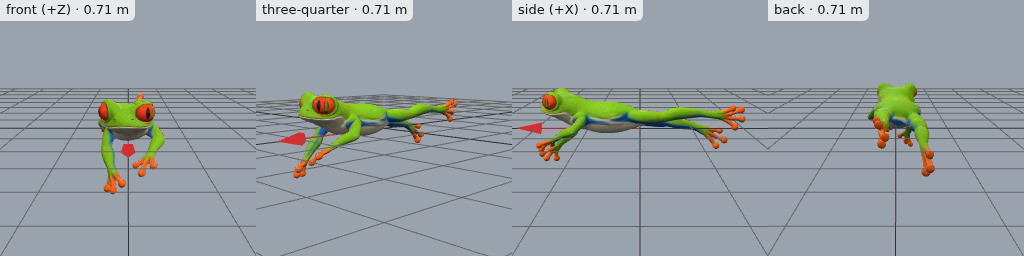
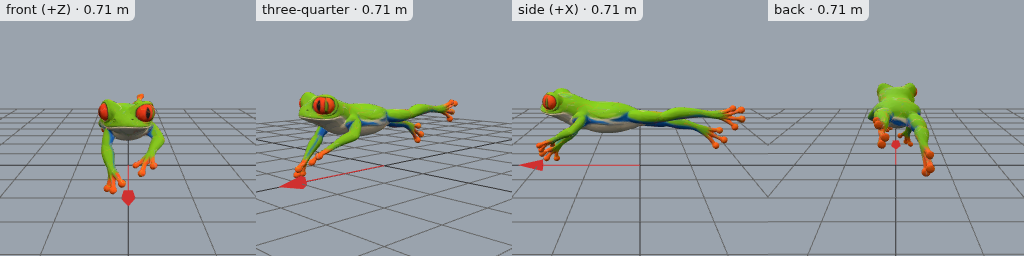
Release 2026.11.2: models stand on the ground; a guide to animating creatures
- A model made without --height stands on the ground at Meshy's size,
  instead of staying centered, half underground. Fixes #7.
- animating.md, read when an animal or monster should move: key poses
  first, turn parts about joints instead of stretching them, make poses a
  fused mesh can't reach as separate models, check from two angles. The
  code-animation section moves there from reference.md, with its wing and
  leg tips corrected. Fixes #8.

diff --git a/skills/meshgen/animating.md b/skills/meshgen/animating.md
@@ -1,0 +1,84 @@
+# Animating models Meshy can't rig
+
+Read this when the user wants an animal, monster or other model without a
+humanoid rig to move: a fish swimming, a dragon flying, a frog hopping. Meshy
+rigs only humanoids (its four-legged rig is experimental and came back
+unusable in testing), so the motion is made in the game's code. The
+[Creature Showcase](https://zeveck.github.io/meshgen/creatures/) does it
+for a fish, a dragon, a frog and a cat (source:
+https://github.com/zeveck/meshgen/blob/main/examples/creatures/showcase.js).
+
+## 1. Describe the motion as key poses first
+
+Before writing code, write down what the motion looks like at its key
+moments, as an animator would. Think about how the real animal moves, not
+about what's easiest to code. For example:
+
+- **Frog hop:** crouch; push off with the body stretched out level and both
+  hind legs straight back; land front feet first and fold back to sitting.
+- **Bird or dragon wingbeat:** each wing turns at the shoulder; a quick,
+  strong downstroke, a slower upstroke; the tips trail a little behind.
+- **Fish swim:** a wave travelling from head to tail, bigger toward the tail.
+- **Four-legged trot:** legs swing in diagonal pairs (front left with back
+  right) about the hips and shoulders, and the body bobs twice per stride.
+
+## 2. Check whether the model can reach those poses
+
+Look at the preview sheet. Meshy's models are one surface, so a part can
+only move on its own if it's clearly separate from the body.
+
+- **Parts that stick out** (wings, tails, fins, long legs): turn them about
+  a pivot (shoulder, hip, tail root) in a vertex shader or by moving
+  vertices. Don't shear or stretch them; that flattens them into sticks.
+- **Parts fused into the body** (a sitting frog's folded legs, a curled
+  tail): they can't be bent out without smearing the surface. Make each key
+  pose as its own model instead. Edit the original picture with imagegen2
+  ("the same frog, mid-leap, seen from the side, legs stretched back"), make
+  it with `meshgen model`, and swap the models at a moment the motion hides,
+  such as the squash on takeoff and landing. Each pose is 30 credits.
+
+A picture's view decides what the model is good at: a flat front view of
+spread wings gives thin wings that read well only from above or below.
+
+## 3. Check it from more than one angle
+
+Render frames of the motion from at least two directions (the side and the
+front, or the angles the game's camera uses) and compare them with the key
+poses from step 1. A motion can look right from one side and broken from
+another. Show moving parts from angles where they face the camera.
+
+## Doing it in three.js
+
+1. **Bake the model into meters.** Apply each mesh's world matrix to its
+   geometry, so shader code sees the model's own space (+Y up, +Z front):
+
+   ```js
+   gltf.scene.updateMatrixWorld(true);
+   gltf.scene.traverse((o) => { if (o.isMesh) o.geometry = o.geometry.clone().applyMatrix4(o.matrixWorld); });
+   ```
+
+2. **Add a deformation** after three.js computes `transformed`:
+
+   ```js
+   mesh.material.onBeforeCompile = (shader) => {
+     Object.assign(shader.uniforms, { uTime, uMaxZ, uLen }); // { value: ... }; update uTime each frame
+     shader.vertexShader = 'uniform float uTime, uMaxZ, uLen;\n' + shader.vertexShader.replace(
+       '#include <begin_vertex>',
+       `#include <begin_vertex>
+        float along = clamp((uMaxZ - position.z) / uLen, 0.0, 1.0);   // 0 head, 1 tail
+        transformed.x += uLen * 0.16 * pow(along, 1.7) * sin(uTime * 5.0 - along * 5.5);`);
+   };
+   mesh.material.customProgramCacheKey = () => 'fish';
+   ```
+
+   - **Swimming:** a sine wave down the body, stronger toward the tail.
+   - **Wings:** turn each wing's vertices about the shoulder by an angle
+     that follows the wingbeat; the tips can lag a little behind.
+   - **Legs:** turn the vertices below the hips forward and back about the
+     hip, in diagonal pairs for a trot.
+   - **Hops:** squash and stretch the whole model (scale y up, x and z down),
+     and move it along an arc.
+
+3. **Check the picture's view.** Meshy usually turns a creature to face +Z
+   even when the picture was a side view, but not always. Look at the
+   preview's front view before choosing the body axis.

diff --git a/skills/meshgen/reference.md b/skills/meshgen/reference.md
@@ -98,48 +98,13 @@ the blade, a point light, and an emissive material.
 | Blending (walk into run, strafing) | The engine: crossfades and weights, or Godot's AnimationTree |
 | Small reactions: flinch, recoil, look-at, aiming, breathing | The engine, layered on top of the clips (additive clips, IK, a bone turned in code) |
 | Props: chest lid, door, lever, wheels, spinning pickups | No rig: rotate or move the model's parts in code |
-| Animals, monsters, vehicles, anything not two-legged | No rig: a plain model, moved in code (see below). Meshy's `--quadruped` rig is experimental and gave an unusable walk in our test |
+| Animals, monsters, vehicles, anything not two-legged | No rig: a plain model, moved in code (see animating.md). Meshy's `--quadruped` rig is experimental and gave an unusable walk in our test |
 | Clips Meshy doesn't have | Search more (`actions <word>`); Quaternius's CC0 animation libraries can be retargeted in Godot. Don't automate Mixamo downloads |
 
 ## Animating plain models in code
 
-Fish, birds, dragons, frogs, slimes and most creatures don't need a rig. Bend
-the model in its vertex shader and move it along a path. `examples/creatures`
-in the meshgen repo does a betta fish, a dragon, a frog and a cat this way.
-
-1. **Bake the model into meters.** Apply each mesh's world matrix to its
-   geometry, so shader code sees the model's own space (+Y up, +Z front):
-
-   ```js
-   gltf.scene.updateMatrixWorld(true);
-   gltf.scene.traverse((o) => { if (o.isMesh) o.geometry = o.geometry.clone().applyMatrix4(o.matrixWorld); });
-   ```
-
-2. **Add a deformation** after three.js computes `transformed`:
-
-   ```js
-   mesh.material.onBeforeCompile = (shader) => {
-     Object.assign(shader.uniforms, { uTime, uMaxZ, uLen }); // { value: ... }; update uTime each frame
-     shader.vertexShader = 'uniform float uTime, uMaxZ, uLen;\n' + shader.vertexShader.replace(
-       '#include <begin_vertex>',
-       `#include <begin_vertex>
-        float along = clamp((uMaxZ - position.z) / uLen, 0.0, 1.0);   // 0 head, 1 tail
-        transformed.x += uLen * 0.16 * pow(along, 1.7) * sin(uTime * 5.0 - along * 5.5);`);
-   };
-   mesh.material.customProgramCacheKey = () => 'fish';
-   ```
-
-   - **Swimming:** a sine wave down the body, stronger toward the tail.
-   - **Wings:** vertices move up and down by how far they are from the body
-     (squared, so the tips move most).
-   - **Legs:** vertices below the hips swing forward and back, in diagonal
-     pairs for a trot.
-   - **Hops:** squash and stretch the whole model (scale y up, x and z down),
-     and move it along an arc.
-
-3. **Check the picture's view.** Meshy usually turns a creature to face +Z
-   even when the picture was a side view, but not always. Look at the
-   preview's front view before choosing the body axis.
+See `animating.md`: plan the key poses, turn parts about pivots or make each
+pose as its own model, and check the motion from more than one angle.
 
 ## Prompts and pictures
 

diff --git a/skills/meshgen/SKILL.md b/skills/meshgen/SKILL.md
@@ -10,9 +10,10 @@ argument-hint: <what to make> [--image picture.png] [--actions idle,walk,run,...
 
 meshgen turns a description or a picture into a 3D model with Meshy, and can
 rig and animate humanoid characters. Each asset ends up as one GLB file with
-all its animation clips, sized in meters. Models stand on the ground (y = 0),
-and Meshy's characters face +Z. That's what three.js, Godot and most engines
-expect; the preview sheet and the JSON `warnings` show when something is off.
+all its animation clips, in meters (`--height` sets the size). Models stand
+on the ground (y = 0), and Meshy's characters face +Z. That's what three.js,
+Godot and most engines expect; the preview sheet and the JSON `warnings` show
+when something is off.
 
 The CLI sits next to this file:
 
@@ -29,6 +30,10 @@ Ask the user questions in plain words in your reply. Never use a question tool.
 `${CLAUDE_SKILL_DIR}/printing.md` first and follow it instead of the game
 advice below: prints need millimeters, full detail, solid printable shapes
 and no rig.
+
+**To animate a model without a humanoid rig** (an animal, monster or
+creature to swim, fly, hop or walk), read `${CLAUDE_SKILL_DIR}/animating.md`
+before writing the motion code.
 
 ## Costs
 
@@ -78,7 +83,7 @@ words you used.
 
 - Rigging works on **two-legged humanoids** with clear arms and legs. For
   animals, creatures, vehicles and props, make a plain `model` and animate it
-  in the game's code (see reference.md). `--quadruped` asks Meshy for a
+  in the game's code (see animating.md). `--quadruped` asks Meshy for a
   four-legged rig with a walk clip. It is experimental: in our test (a cat)
   Meshy's rig came back about 60 times too small (meshgen rescales that) and
   its walk clip was unusable, so check the preview before relying on it.
@@ -102,7 +107,9 @@ node ${CLAUDE_SKILL_DIR}/meshgen.cjs model treasure-chest --prompt "wooden treas
 node ${CLAUDE_SKILL_DIR}/meshgen.cjs model sword --image concepts/sword.png --height 1.0
 ```
 
-`--height` scales the model in meters. Models come out game-sized: 10,000
+`--height` scales the model in meters; give one for every game asset, since
+without it a model keeps whatever size Meshy picked. Either way it stands on
+the ground. Models come out game-sized: 10,000
 triangles for props, 30,000 for characters. Change it with `--polycount`, or
 later with `remesh` (5 credits).
 

diff --git a/README.md b/README.md
@@ -217,6 +217,11 @@ Plus:
   [`printing.md`](skills/meshgen/printing.md) about millimeters, solid
   shapes, overhangs and Meshy's repair, multi-color and split steps, and
   skips the rigging and engine advice.
+- **Creatures that move well.** Meshy rigs only humanoids. To animate an
+  animal or monster, the agent reads
+  [`animating.md`](skills/meshgen/animating.md): plan the motion as key
+  poses, turn wings and tails about their joints, make poses the mesh can't
+  reach as separate models, and check the result from more than one angle.
 - **Zero dependencies.** Node's built-in `fetch`, `zlib` and
   `process.loadEnvFile`; three.js 0.186.1 (MIT) is vendored for previews.
 
@@ -233,7 +238,7 @@ versus animating in code.
 | `--image <path or url>` | A reference picture; repeat for side and back views (front first) |
 | `--texture-prompt <text>` | Extra guidance for the textures |
 | `--draft` | Cheaper and rougher |
-| `--height <meters>` | How tall the character or model is |
+| `--height <meters>` | How tall the character or model is (without it, a model keeps Meshy's size) |
 | `--polycount <n>` | Triangles; defaults are 30,000 for characters and 10,000 for models |
 | `--topology <t>` | `triangle` or `quad` |
 | `--pose <p>` | `a-pose`, `t-pose` or `none` |

diff --git a/CHANGELOG.md b/CHANGELOG.md
@@ -1,5 +1,10 @@
 # Changelog
 
+## 2026.11.2
+
+- A model made without `--height` now stands on the ground, at the size Meshy made it. Before, it stayed centered on the origin, half underground (#7). To fix an existing one, run `meshgen rebuild <name>` (free).
+- New guide, `animating.md`, which the skill reads when you want an animal or monster to move (#8). It covers planning the motion as key poses, turning wings and tails about their joints instead of stretching them, making poses the mesh can't reach as separate models, and checking from more than one angle. The Creature Showcase's frog and dragon taught these.
+
 ## 2026.11.1.5
 
 - Simpler handling of a rig Meshy has deleted (#6). `animate` no longer rigs again by itself: it stops before spending anything and says to run `meshgen rig <name>`, which rigs again and remakes all the character's paid clips in one job. A rerun after a timeout picks up the same job.
